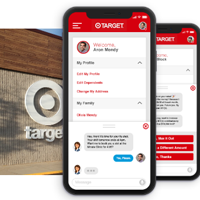
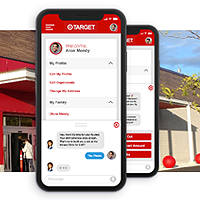
sizing updates

diff --git a/css/style.css b/css/style.css
@@ -884,7 +884,7 @@ hr.briefHR {
   }
 
   .targetMobile img {
-	width: 90%;
+	width: 84%;
   }
 
   .targetMobile2 img {
@@ -901,7 +901,7 @@ hr.briefHR {
 
   /* PPC */
   .PPCMobile img {
-	width: 73%;
+	width: 65%;
   }
 
   .PPCMobile2 img {
